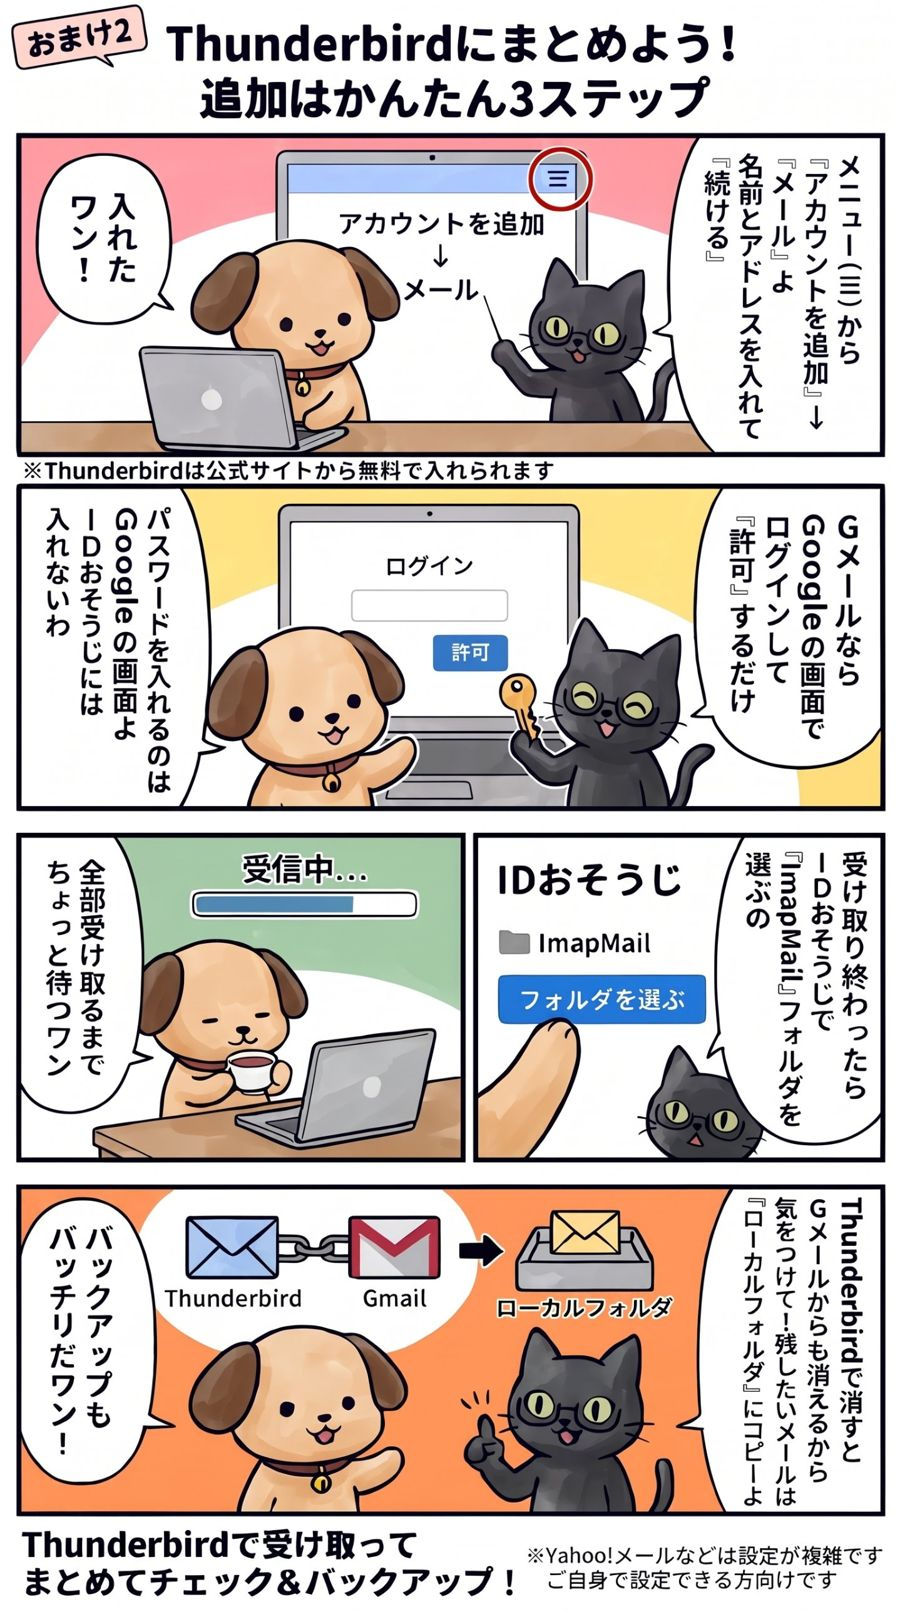
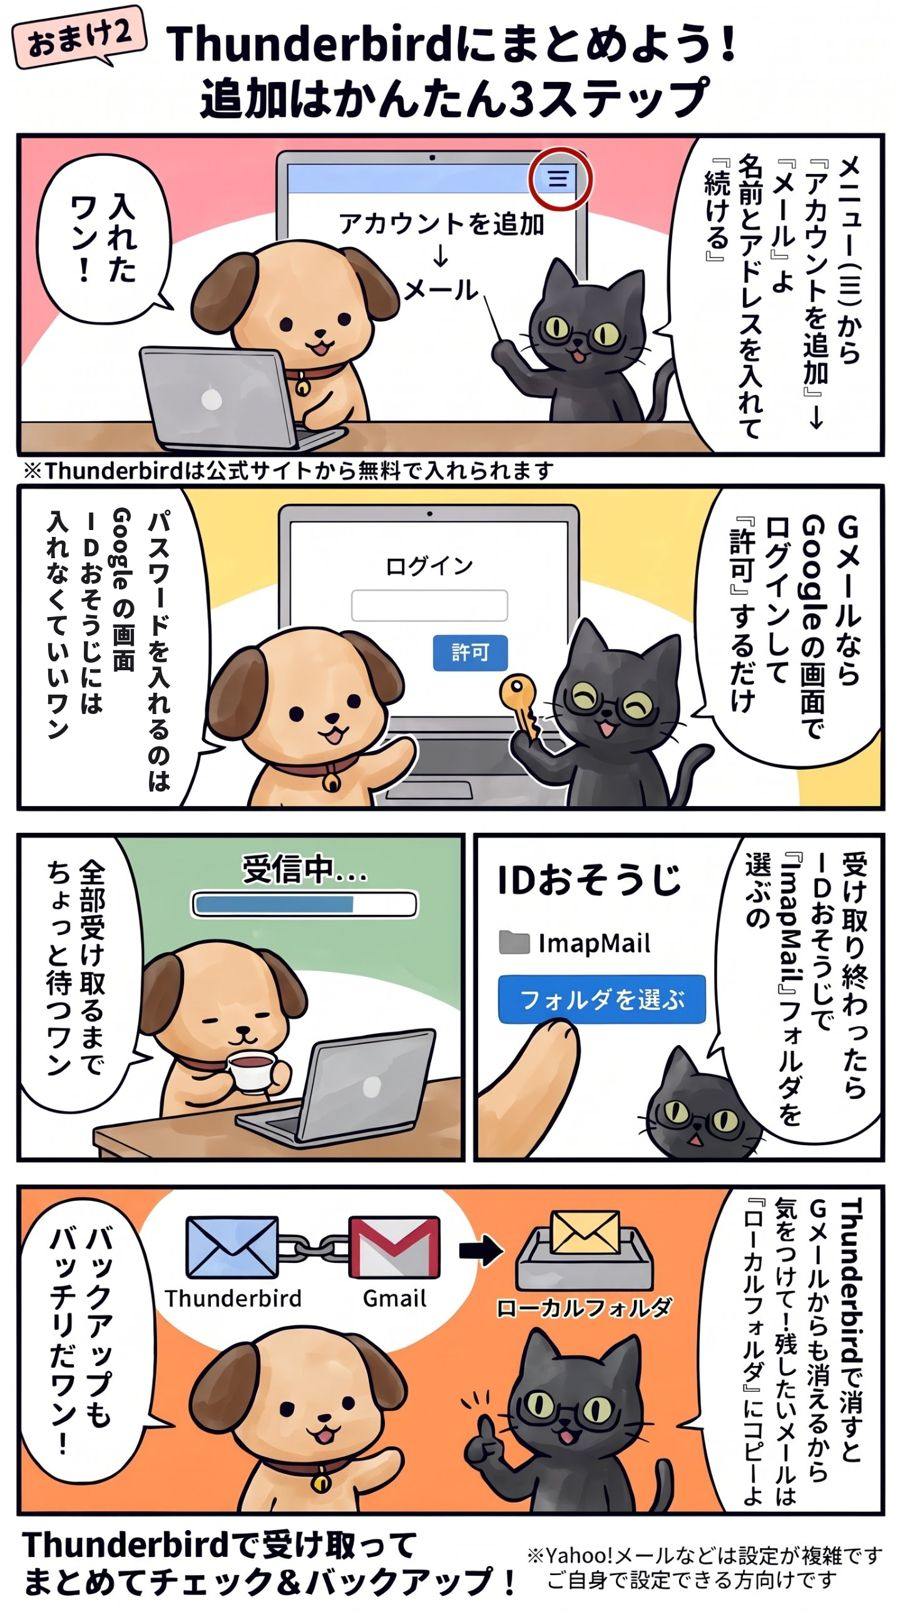
up

Changed region(s): [[0.0311, 0.3102, 0.1867, 0.4963]]

diff --git a/id-osouji.html b/id-osouji.html
@@ -18,7 +18,7 @@
 <figure><figcaption>2　漏れたら拡大防止！鍵を掛け直す方法</figcaption><a href="images/id-osouji/manga-2.jpg" target="_blank" rel="noopener"><img src="images/id-osouji/manga-2.jpg" alt="マンガ2：漏れたら絶対拡大防止！鍵を掛け直す方法" loading="lazy" width="900" height="1612"></a></figure>
 <figure><figcaption>3　クレカ未登録でも安心できない？「名寄せ」のワナ</figcaption><a href="images/id-osouji/manga-3.jpg" target="_blank" rel="noopener"><img src="images/id-osouji/manga-3.jpg" alt="マンガ3：クレカ未登録でも安心できない？名寄せのワナ" loading="lazy" width="900" height="1612"></a></figure>
 <figure><figcaption>おまけ1　メールがバラバラ！？ Thunderbirdでひとまとめ！</figcaption><a href="images/id-osouji/omake-1.jpg" target="_blank" rel="noopener"><img src="images/id-osouji/omake-1.jpg" alt="おまけ1：メールがバラバラ！？ Thunderbirdでひとまとめ！" loading="lazy" width="900" height="1612"></a></figure>
-<figure><figcaption>おまけ2　Thunderbirdにまとめよう！追加はかんたん3ステップ</figcaption><a href="images/id-osouji/omake-2.jpg?v=3" target="_blank" rel="noopener"><img src="images/id-osouji/omake-2.jpg?v=3" alt="おまけ2：Thunderbirdにまとめよう！追加はかんたん3ステップ" loading="lazy" width="900" height="1612"></a></figure>
+<figure><figcaption>おまけ2　Thunderbirdにまとめよう！追加はかんたん3ステップ</figcaption><a href="images/id-osouji/omake-2.jpg?v=5" target="_blank" rel="noopener"><img src="images/id-osouji/omake-2.jpg?v=5" alt="おまけ2：Thunderbirdにまとめよう！追加はかんたん3ステップ" loading="lazy" width="900" height="1612"></a></figure>
 </div>
 <p class="note">おまけ1・2は、Thunderbirdを使うと便利になることの紹介です。IDおそうじを使うのに、Thunderbirdは必須ではありません（Outlookのデータファイルや、書き出したメールファイルも読み込めます）。</p>
 
